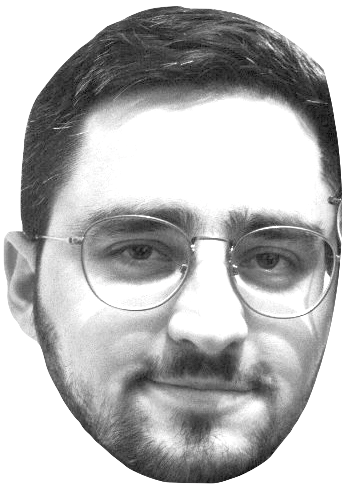
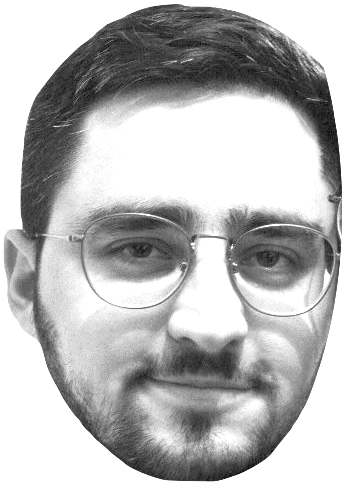
rgid grid grid, image crop, new image animations, link list is now a grid, still pretty ugly

diff --git a/photo.css b/photo.css
@@ -5,69 +5,77 @@
   position: relative;
   display: flex;
   flex-direction: column;
-  /* justify-content: stretch; */
-  /* align-items: center; */
-}
-
-.id-photo {
-  width: 150px;
+  justify-content: center;
+  align-items: center;
+  margin-right: auto;
+  width: 154px;
   height: 208px;
-  /* margin: 16px; */
+  cursor: grab;
 }
 
 .id-photo img {
   z-index: 2;
   align-self: center;
-  width: 146px;
+  width: 208px;
+  height: 208px;
+  /* transform-origin: 50% 100%; */
 }
 
 .id-photo:hover .circleneck {
-  animation: headbangy 2.2s infinite linear;
+  animation: headbangy 4s infinite linear;
 }
 .id-photo:hover img {
-  animation: headbang 6.6s infinite linear;
+  animation: headbang 20s infinite linear;
 }
 
 .circleneck {
   position: absolute;
   z-index: 1;
   bottom: -20px;
-  left: -14px;
   width: 180px;
   height: 180px;
   border-radius: 50%;
   background-color: var(--beau-blue);
   border: 3px solid #004ba8;
-  transform-origin: 49.4% 49.4%;
+  transform-origin: 49.5% 50.5%;
 }
 
 @keyframes headbang {
   0% {
     transform: rotate(0deg);
+    transform-origin: 50% 10%;
   }
   17% {
     transform: rotate(-3deg) scale(1.02);
+    transform-origin: 50% 80%;
   }
   33% {
     transform: rotate(3deg);
+    transform-origin: 50% 20%;
   }
   50% {
     transform: rotate(-2deg) scale(1.03);
   }
   66% {
     transform: rotate(0deg);
+    transform-origin: 50% 80%;
   }
   83% {
     transform: rotate(-5deg) scale(1.01);
+    transform-origin: 50% 20%;
   }
   100% {
     transform: rotate(0deg);
+    transform-origin: 50% 90%;
   }
 }
 
 @keyframes headbangy {
   0% {
     transform: rotate(0deg);
+  }
+  50% {
+    transform-origin: 49% 51%;
   }
   100% {
     transform: rotate(360deg);

diff --git a/layout.css b/layout.css
@@ -1,3 +1,8 @@
+.wrapper > * {
+  padding: 16px;
+  justify-content: start;
+}
+
 #image-container {
   grid-area: imag;
 }
@@ -6,10 +11,24 @@
 }
 .title {
   grid-area: titl;
+  justify-content: space-between;
+}
+.subtitle {
+  grid-area: subt;
 }
 .links {
   grid-area: link;
+  display: grid;
+  grid-template-columns: repeat(4, 1fr);
+  column-gap: 16px;
 }
+
+@media (max-width: 540px) {
+  .links {
+    grid-template-columns: repeat(2, 1fr);
+  }
+}
+
 #main-content {
   grid-area: main;
 }
@@ -53,26 +72,22 @@ footer {
 
 .wrapper {
   max-width: 1024px;
-  margin: 0 auto;
+  margin: 0 8px;
   padding: 16px;
   display: grid;
   grid-template-columns: 1fr 1fr;
   grid-template-rows: repeat(auto-fit, minmax(200px, 1fr));
   grid-template-areas:
     "imag name"
-    "imag link"
     "titl titl"
+    "subt subt"
+    "link link"
     "main main"
     "sid1 sid1"
     "segu segu"
     "sid2 sid2"
     "foot foot";
-  gap: 16px;
-}
-
-.wrapper > * {
-  padding: 16px;
-  justify-content: start;
+  gap: 48px;
 }
 
 @media (min-width: 640px) {
@@ -85,8 +100,14 @@ footer {
   #cv-title {
   }
   #image-container {
+    /* padding: 2px auto 2px 2px; */
+    padding: 16px;
   }
   #name-age {
+  }
+
+  .links {
+    grid-template-columns: 1fr;
   }
 
   #side1,
@@ -96,12 +117,16 @@ footer {
     align-items: stretch;
     padding: 16px;
   }
-
+  body {
+    width: 100%;
+  }
   .wrapper {
-    grid-template-columns: minmax(220px, 1fr) 3fr;
+    width: 100%;
+    grid-template-columns: minmax(220px, 2fr) minmax(600px, 5fr);
     grid-template-rows: repeat(auto-fit, minmax(200px, 1fr));
     grid-template-areas:
       "imag titl"
+      "imag subt"
       "name main"
       "link main"
       "sid1 main"

diff --git a/index.html b/index.html
@@ -22,7 +22,7 @@
         <div>
           <div class="id-photo">
             <div class="circleneck"></div>
-            <img src="photoofmecut2.png" />
+            <img src="photoofmecut3.png" />
           </div>
         </div>
       </div>
@@ -30,10 +30,10 @@
       <!------------------- TITLE ------------------->
 
       <div class="title">
-        <div>
-          <h1>junior web dev</h1>
-          <h2>Front-end - ReactJS</h2>
-        </div>
+        <h1>junior web dev</h1>
+      </div>
+      <div class="subtitle">
+        <h2>Front-end - ReactJS</h2>
       </div>
 
       <!------------------- SIDE CONTENT ------------------->
@@ -44,9 +44,10 @@
         <h1>Ariel</h1>
 
         <!-- me -->
-
-        <h4>vingt-huit ans</h4>
-        <h4>92130 - Issy</h4>
+        <div>
+          <h4>vingt-huit ans</h4>
+          <h4>92130 - Issy</h4>
+        </div>
       </div>
 
       <!-- links -->
@@ -70,7 +71,7 @@
 
         <a href="https://linkedin.com/in/ariel-levy-webdev">
           <img src="linkedin-icon.svg" />
-          <h4>linkedin</h4>
+          <h4>linkedIn</h4>
         </a>
         <!-- </div> -->
 

diff --git a/main.css b/main.css
@@ -19,6 +19,8 @@
   --headings: "Viga";
   --sub-headings: "Viga";
   --text: "Quicksand";
+
+  /* background-color: blanchedalmond; */
 }
 
 * {
@@ -131,7 +133,7 @@ section div {
   padding: 4px 6px;
   margin: 2px;
 }
-
+.subtitle,
 .title {
   display: flex;
   flex-direction: column;
@@ -155,7 +157,7 @@ section div {
 #name-age {
   display: flex;
   flex-direction: column;
-  justify-content: stretch;
+  justify-content: space-around;
   align-items: stretch;
 }
 
@@ -169,12 +171,17 @@ section div {
 
 .links a {
   display: flex;
+  justify-content: start;
   align-items: center;
+}
+
+.links a:nth-child(4n) {
+  justify-content: end;
 }
 
 .links a img {
   height: 1.2rem;
-  margin-right: 8px;
+  margin-right: 10px;
 }
 
 .skill-list {
